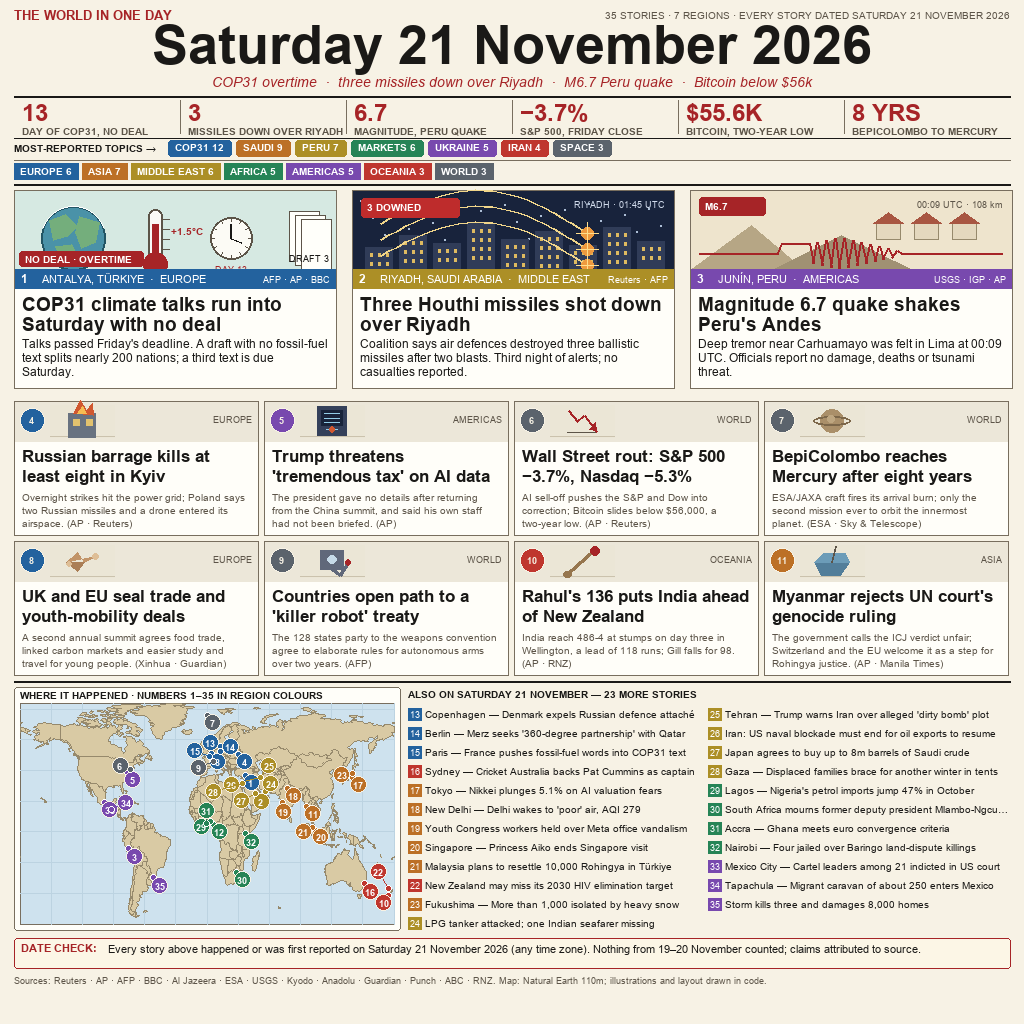
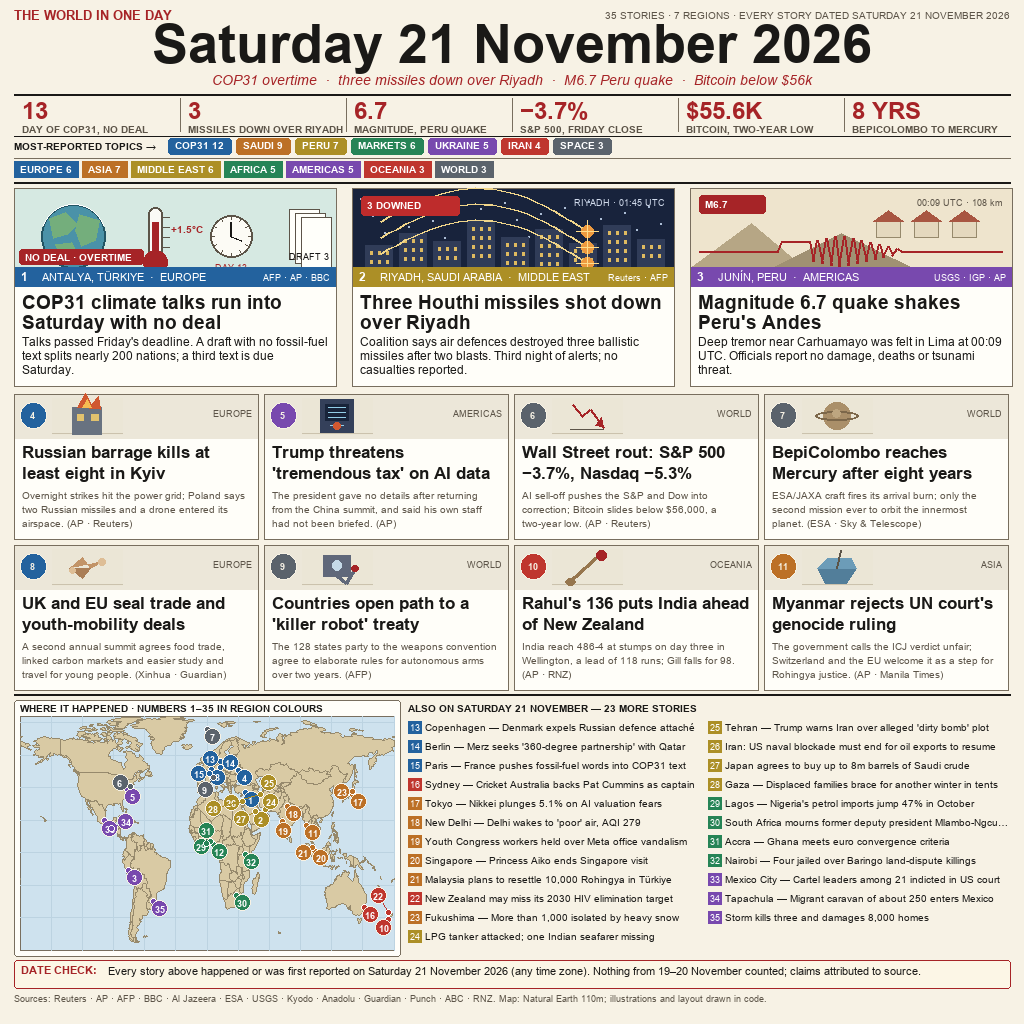
Push date check to bottom and enlarge small cards again

Changed region(s): [[0.0, 0.0312, 1.0, 1.0]]

diff --git a/draw.py b/draw.py
@@ -392,31 +392,31 @@ def build():
     text(d, (14, 8), "THE WORLD IN ONE DAY", F_KICK, RED)
     text(d, (W - 14, 9), "35 STORIES · 7 REGIONS · EVERY STORY DATED SATURDAY 21 NOVEMBER 2026",
          F_TINY, MUTED, "ra")
-    text(d, (W / 2, 45), "Saturday 21 November 2026", F_HEAD, INK, "mm")
-    text(d, (W / 2, 82), "COP31 overtime  ·  three missiles down over Riyadh  ·  M6.7 Peru quake  ·  Bitcoin below $56k",
+    text(d, (W / 2, 44), "Saturday 21 November 2026", F_HEAD, INK, "mm")
+    text(d, (W / 2, 80), "COP31 overtime  ·  three missiles down over Riyadh  ·  M6.7 Peru quake  ·  Bitcoin below $56k",
          F_SUB, RED, "mm")
-    d.line([14, 96, W - 14, 96], fill=INK, width=2)
+    d.line([14, 94, W - 14, 94], fill=INK, width=2)
 
     # six big numbers, tighter
     cw = (W - 28) / 6
     for k, (val, lab) in enumerate(METRICS):
         x = 14 + k * cw
         if k:
-            d.line([x, 100, x, 133], fill=HAIR, width=1)
-        text(d, (x + 8, 99), val, F_MET, RED)
-        text(d, (x + 8, 125), lab, F_LABEL, MUTED)
-    d.line([14, 138, W - 14, 138], fill=INK, width=1)
+            d.line([x, 98, x, 131], fill=HAIR, width=1)
+        text(d, (x + 8, 97), val, F_MET, RED)
+        text(d, (x + 8, 123), lab, F_LABEL, MUTED)
+    d.line([14, 136, W - 14, 136], fill=INK, width=1)
 
     # most-reported topics, ordered by number of reports
-    text(d, (14, 142), "MOST-REPORTED TOPICS →", F_LABEL, INK)
+    text(d, (14, 140), "MOST-REPORTED TOPICS →", F_LABEL, INK)
     tx = 168
     for k, t in enumerate(TOPICS):
         col = REGIONS[k % 7][1]
         tw = d.textlength(t, font=F_TAG) + 14
-        rrect(d, [tx, 140, tx + tw, 156], 3, fill=col)
-        text(d, (tx + 7, 141), t, F_TAG, (255, 255, 255))
+        rrect(d, [tx, 138, tx + tw, 154], 3, fill=col)
+        text(d, (tx + 7, 139), t, F_TAG, (255, 255, 255))
         tx += tw + 5
-    d.line([14, 160, W - 14, 160], fill=HAIR, width=1)
+    d.line([14, 158, W - 14, 158], fill=HAIR, width=1)
 
     # region legend
     counts = {}
@@ -426,17 +426,17 @@ def build():
     for name, col in REGIONS:
         lab = "%s %d" % (name, counts.get(name, 0))
         lw = d.textlength(lab, font=F_LABEL) + 12
-        d.rectangle([lx, 163, lx + lw, 179], fill=col)
-        text(d, (lx + 6, 165), lab, F_LABEL, (255, 255, 255))
+        d.rectangle([lx, 161, lx + lw, 177], fill=col)
+        text(d, (lx + 6, 163), lab, F_LABEL, (255, 255, 255))
         lx += lw + 4
-    d.line([14, 184, W - 14, 184], fill=INK, width=2)
+    d.line([14, 182, W - 14, 182], fill=INK, width=2)
 
     # three main cards
     ills = [ill_globe, ill_missiles, ill_quake]
     for i in range(3):
         s = STORIES[i]
         x = 14 + i * 338
-        y = 190
+        y = 188
         w, h = 322, 198
         d.rectangle([x, y, x + w, y + h], fill=(255, 254, 249), outline=HAIR, width=1)
         ills[i](d, x + 1, y + 1, w - 2, 78)
@@ -448,32 +448,32 @@ def build():
         yy = lines(d, (x + 8, y + 103), s[3], F_CARD, w - 16, 20, INK, 2)
         lines(d, (x + 8, yy + 4), s[4], F_BODY, w - 16, 14, INK, 3)
 
-    # eight larger small cards with roomier illustrations and numbers
+    # eight roomier small cards: larger number badges and larger illustrations
     for i in range(8):
         s = STORIES[3 + i]
         row, col = divmod(i, 4)
         x = 14 + col * 250
-        y = 401 + row * 140
-        w, h = 244, 134
+        y = 394 + row * 151
+        w, h = 244, 145
         d.rectangle([x, y, x + w, y + h], fill=(255, 254, 249), outline=HAIR, width=1)
-        d.rectangle([x + 1, y + 1, x + w - 1, y + 40], fill=(236, 231, 217))
-        badge(d, x + 6, y + 7, s[0], s[1], 24)
-        ill_mini(d, x + 36, y + 4, 64, 32, MINI[i], RCOL[s[1]])
-        text(d, (x + w - 6, y + 13), s[1], F_MICRO, MUTED, "ra")
-        lines(d, (x + 8, y + 45), s[3], F_CARD2, w - 16, 20, INK, 2)
-        lines(d, (x + 8, y + 90), s[4] + " (" + s[5] + ")", F_TINY, w - 16, 13, MUTED, 3)
+        d.rectangle([x + 1, y + 1, x + w - 1, y + 44], fill=(236, 231, 217))
+        badge(d, x + 6, y + 8, s[0], s[1], 26)
+        ill_mini(d, x + 38, y + 4, 70, 36, MINI[i], RCOL[s[1]])
+        text(d, (x + w - 6, y + 14), s[1], F_MICRO, MUTED, "ra")
+        lines(d, (x + 8, y + 48), s[3], F_CARD2, w - 16, 21, INK, 2)
+        lines(d, (x + 8, y + 95), s[4] + " (" + s[5] + ")", F_TINY, w - 16, 14, MUTED, 3)
 
     # bottom: map left, story list right
-    d.line([14, 681, W - 14, 681], fill=INK, width=2)
-    rrect(d, [14, 687, 400, 930], 3, fill=(255, 254, 249), outline=HAIR)
-    text(d, (20, 689), "WHERE IT HAPPENED · NUMBERS 1–35 IN REGION COLOURS", F_LABEL, INK)
-    draw_map(d, 20, 703, 374, 221)
+    d.line([14, 694, W - 14, 694], fill=INK, width=2)
+    rrect(d, [14, 700, 400, 956], 3, fill=(255, 254, 249), outline=HAIR)
+    text(d, (20, 702), "WHERE IT HAPPENED · NUMBERS 1–35 IN REGION COLOURS", F_LABEL, INK)
+    draw_map(d, 20, 716, 374, 234)
 
-    text(d, (408, 688), "ALSO ON SATURDAY 21 NOVEMBER — 23 MORE STORIES", F_LABEL, INK)
+    text(d, (408, 702), "ALSO ON SATURDAY 21 NOVEMBER — 23 MORE STORIES", F_LABEL, INK)
     for idx, s in enumerate(STORIES[12:]):
         col, row = divmod(idx, 12)
         x = 408 + col * 300
-        y = 707 + row * 19
+        y = 720 + row * 19
         d.rectangle([x, y + 1, x + 13, y + 13], fill=RCOL[s[1]])
         text(d, (x + 6.5, y + 7), str(s[0]), F_MICRO, (255, 255, 255), "mm")
         label = s[3]
@@ -481,14 +481,14 @@ def build():
             label = s[2].title() + " — " + label
         text(d, (x + 17, y + 1), fit(d, label, F_LIST, 279), F_LIST, INK)
 
-    # slim date-check and source lines hugging the bottom edge
-    rrect(d, [14, 938, W - 14, 968], 3, fill=(252, 246, 230), outline=RED, width=1)
-    text(d, (21, 942), "DATE CHECK:", F_LISTB, RED)
-    text(d, (108, 943),
+    # slim date-check and source lines, pushed down close to the bottom edge
+    rrect(d, [14, 960, W - 14, 988], 3, fill=(252, 246, 230), outline=RED, width=1)
+    text(d, (21, 964), "DATE CHECK:", F_LISTB, RED)
+    text(d, (108, 965),
          "Every story above happened or was first reported on Saturday 21 November 2026 (any time zone). "
          "Nothing from 19–20 November counted; claims attributed to source.",
          F_SMALL, INK)
-    text(d, (14, 975),
+    text(d, (14, 993),
          "Sources: Reuters · AP · AFP · BBC · Al Jazeera · ESA · USGS · Kyodo · Anadolu · Guardian · Punch · ABC · RNZ. "
          "Map: Natural Earth 110m; illustrations and layout drawn in code.",
          F_MICRO, MUTED)

diff --git a/verify.py b/verify.py
@@ -28,15 +28,15 @@ print("  every story has a headline, a detail line and a named source OK")
 preview = os.path.join(os.path.dirname(here), "check21")
 os.makedirs(preview, exist_ok=True)
 im.resize((300, 300), Image.LANCZOS).save(os.path.join(preview, "preview300.png"))
-im.crop((10, 186, 335, 392)).resize((975, 618)).save(os.path.join(preview, "crop_main.png"))
-im.crop((14, 398, 1010, 679)).resize((1992, 562)).save(os.path.join(preview, "crop_smallcards.png"))
-im.crop((14, 684, 402, 932)).resize((1164, 744)).save(os.path.join(preview, "crop_map.png"))
-im.crop((400, 684, 1015, 930)).resize((1230, 492)).save(os.path.join(preview, "crop_list.png"))
+im.crop((10, 184, 335, 390)).resize((975, 618)).save(os.path.join(preview, "crop_main.png"))
+im.crop((14, 390, 1010, 694)).resize((1992, 608)).save(os.path.join(preview, "crop_smallcards.png"))
+im.crop((14, 698, 402, 958)).resize((1164, 780)).save(os.path.join(preview, "crop_map.png"))
+im.crop((400, 698, 1015, 956)).resize((1230, 516)).save(os.path.join(preview, "crop_list.png"))
 print("CHECK 2 previews written OK")
 
 # map label separation: each label centre must be > 16 px from every other
 import math
-sx, sy, mw, mh = 20, 703, 374, 221
+sx, sy, mw, mh = 20, 716, 374, 234
 def proj(lon, lat):
     return (sx + (lon + 180) / 360.0 * mw, sy + (84.0 - lat) / 144.0 * mh)
 used = []
